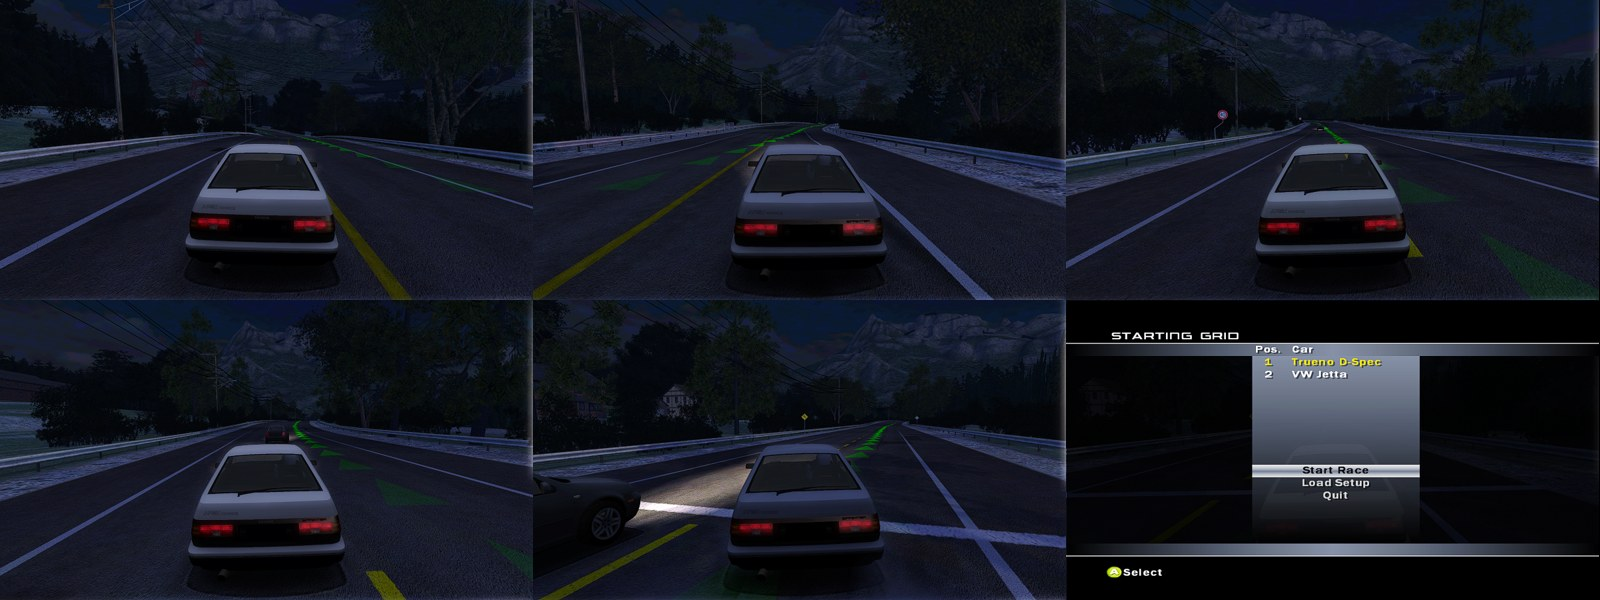
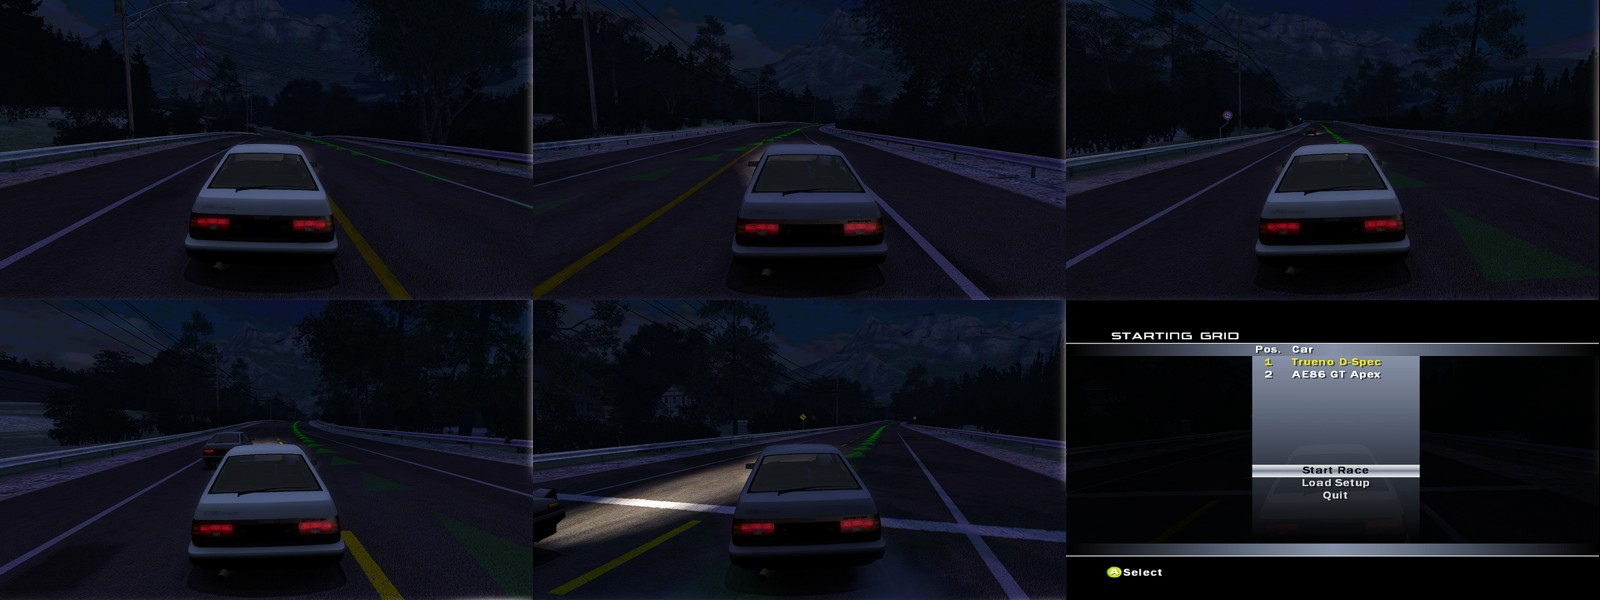
Fujimi at night darker still: the lightmaps, trees, houses and the cars' light (the user's, 16 Nov: "even darker, but just enough where it's not impossible to see")

diff --git a/tools/fujiminight.py b/tools/fujiminight.py
@@ -45,8 +45,8 @@ TRACKS = (('JapaneseMountain', 'JapaneseMountain', 'FujimiNight', 'Fujimi Kaido 
 TIME = '22.00'
 # a lightmap texel c (0.5 leaves the texture as it is) becomes c (1 - LIFT) + TONE LIFT: the day's sun and shade
 # brought close together and down, towards a blue
-LIGHT = (float(os.environ.get('NIGHT_LIFT', 0.78)), tuple(float(v) for v in os.environ.get('NIGHT_TONE', '0.07,0.10,0.19').split(',')))
-CAR_LIGHT = tuple(float(v) for v in os.environ.get('NIGHT_CAR', '0.46,0.52,0.72').split(','))  # the cars' light along the track, of the day's
+LIGHT = (float(os.environ.get('NIGHT_LIFT', 0.86)), tuple(float(v) for v in os.environ.get('NIGHT_TONE', '0.042,0.062,0.125').split(',')))
+CAR_LIGHT = tuple(float(v) for v in os.environ.get('NIGHT_CAR', '0.34,0.40,0.58').split(','))  # the cars' light along the track, of the day's
 SKY_TONE = (0.90, (0.010, 0.018, 0.050))
 MOON = (0.35, (0.80, 0.85, 1.0))  # the sun's disc, paled: the moon
 INI = {
@@ -96,8 +96,8 @@ DRIVERS = (22, 36, 50)
 # user's, 16 Nov: "make some of the scenery darker as well ... so it doesn't look weird": the leafy trees by the road
 # a light green, the houses white): its own textures taken down, by group; the road signs and the tunnel's lamps
 # left as they are, to be read and to glow.
-DARK = {'vegetation_final': (float(os.environ.get('NIGHT_VEG', 0.58)), (0.02, 0.035, 0.07)),
-        'buildings': (float(os.environ.get('NIGHT_BLDG', 0.50)), (0.03, 0.04, 0.08)),
+DARK = {'vegetation_final': (float(os.environ.get('NIGHT_VEG', 0.70)), (0.02, 0.035, 0.07)),
+        'buildings': (float(os.environ.get('NIGHT_BLDG', 0.62)), (0.03, 0.04, 0.08)),
         'ambient_objects': (0.40, (0.03, 0.04, 0.08)),
         'temp': (0.40, (0.03, 0.04, 0.08))}
 KEEP = ('roadsigns', 'light')
